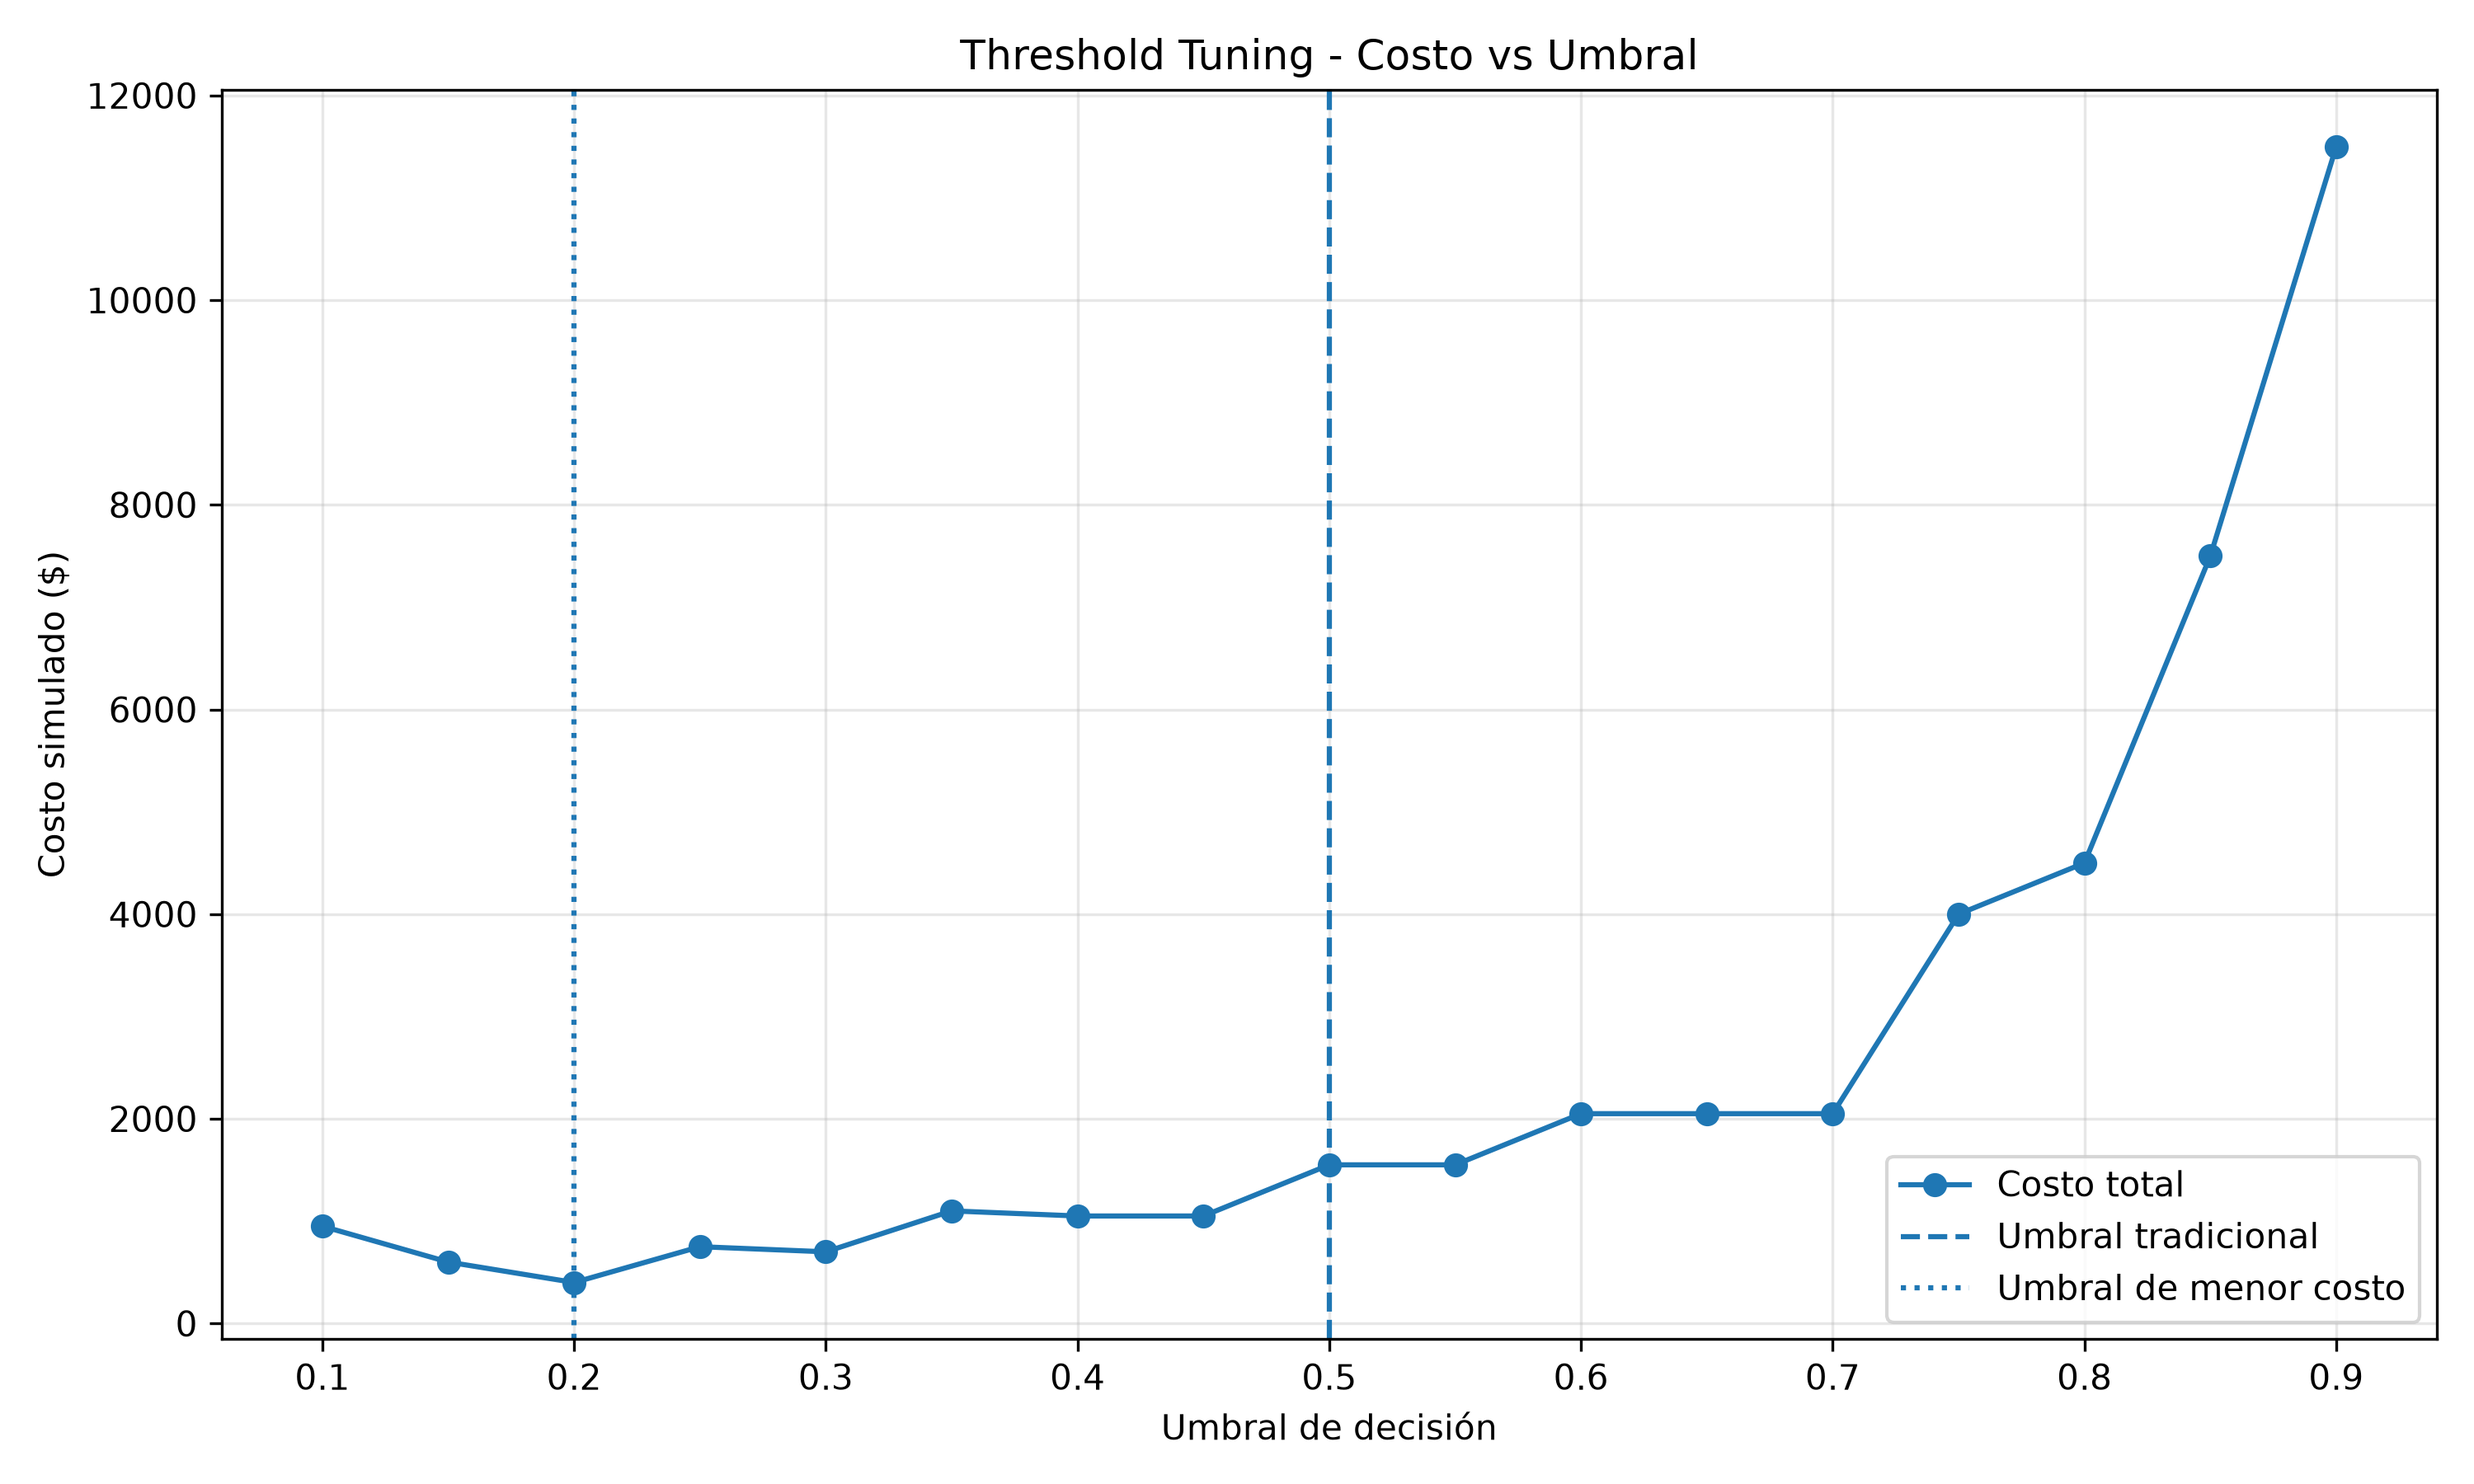
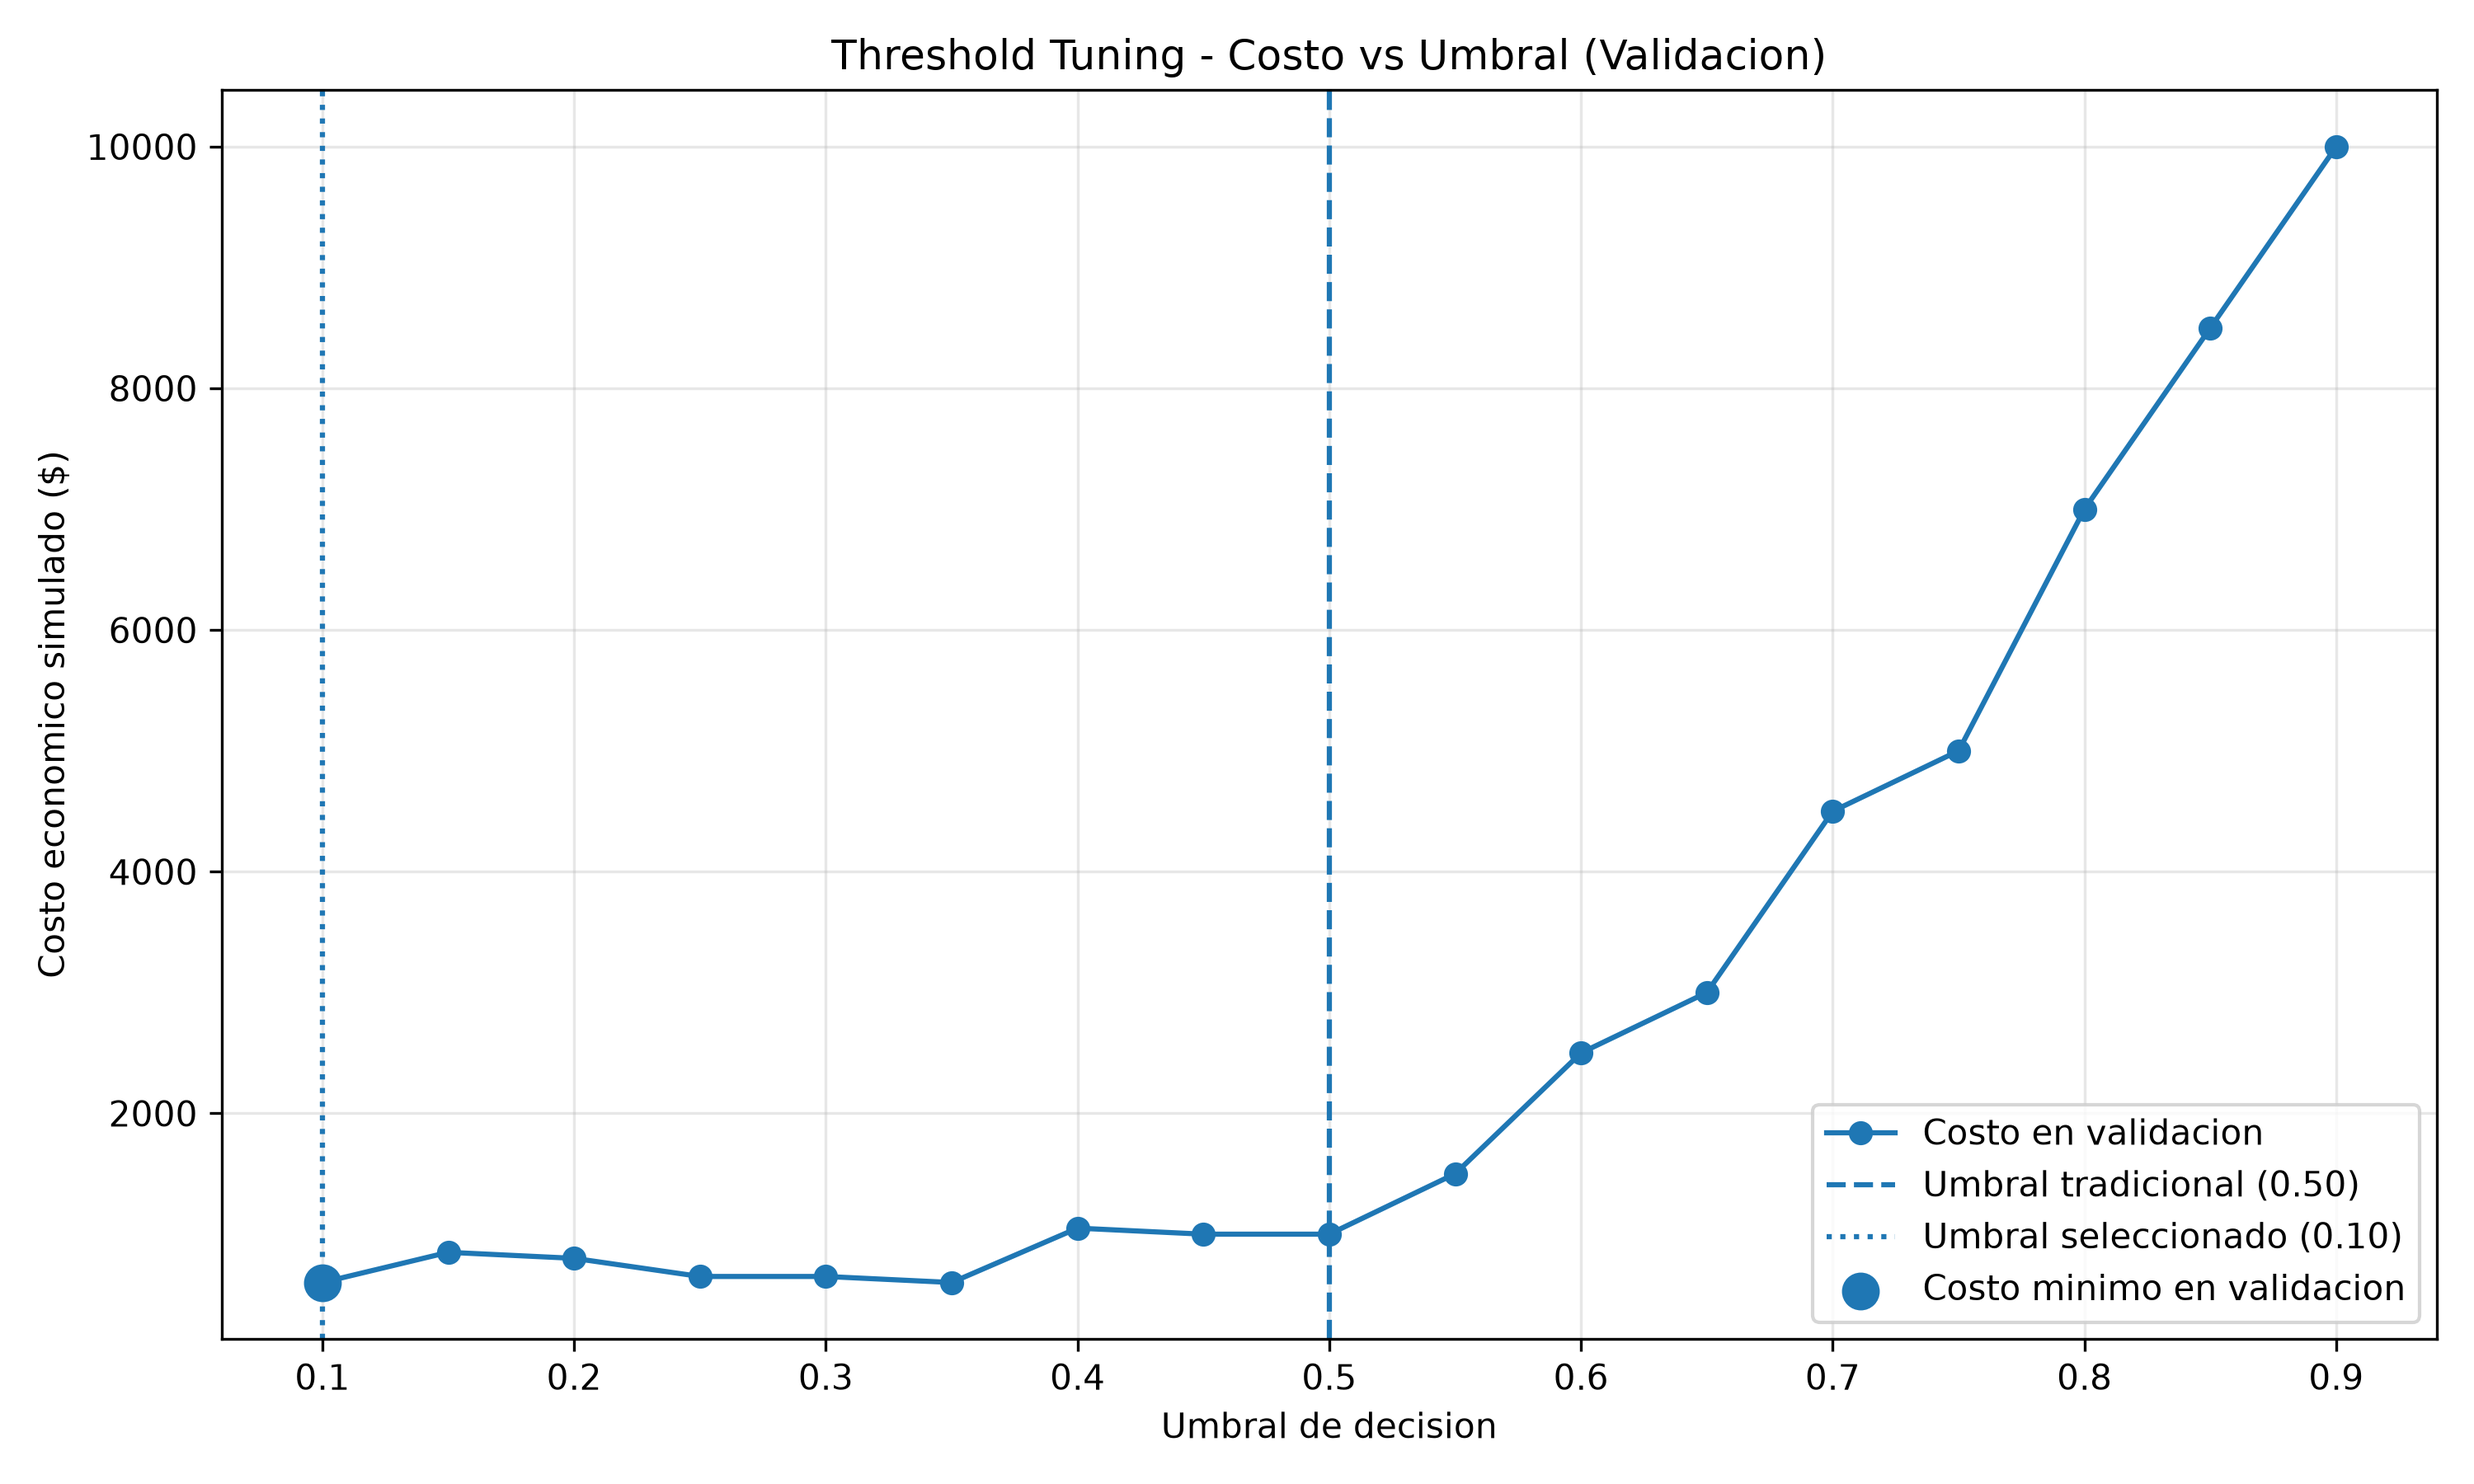
Corregir threshold tuning con validacion separada

diff --git a/src/p2_03_threshold.py b/src/p2_03_threshold.py
@@ -7,114 +7,323 @@ import matplotlib.pyplot as plt
 
 from sklearn.ensemble import RandomForestClassifier
 from sklearn.metrics import confusion_matrix
+from sklearn.model_selection import train_test_split
+
+# ============================================
+# PRACTICA 2 - SESION 3: THRESHOLD TUNING
+# ============================================
 
 BASE_DIR = Path(__file__).resolve().parent.parent
+
 DATASET = BASE_DIR / "data" / "processed" / "dataset.parquet"
 FIGURES = BASE_DIR / "reports" / "figures"
+PROCESSED = BASE_DIR / "data" / "processed"
+
 FIGURES.mkdir(parents=True, exist_ok=True)
+PROCESSED.mkdir(parents=True, exist_ok=True)
 
 COSTO_FP = 50
 COSTO_FN = 500
+RANDOM_STATE = 42
 
 
 def calcular_costo(y_real, y_pred):
-    """Calcula los errores y el costo económico simulado."""
+    """Calcula FP, FN y costo economico simulado."""
+
     tn, fp, fn, tp = confusion_matrix(
-        y_real, y_pred, labels=[0, 1]
+        y_real,
+        y_pred,
+        labels=[0, 1]
     ).ravel()
 
-    return int(fp), int(fn), int(fp * COSTO_FP + fn * COSTO_FN)
+    costo_total = fp * COSTO_FP + fn * COSTO_FN
+
+    return {
+        "TN": int(tn),
+        "FP": int(fp),
+        "FN": int(fn),
+        "TP": int(tp),
+        "Costo ($)": int(costo_total)
+    }
+
+
+def evaluar_umbral(y_real, probabilidades, umbral):
+    """Evalua las predicciones usando un umbral."""
+
+    predicciones = (
+        probabilidades >= umbral
+    ).astype(int)
+
+    return calcular_costo(y_real, predicciones)
 
 
 def main():
-    """Busca el umbral con menor costo en el conjunto evaluado."""
+    """Optimiza el umbral en validacion y evalua en test."""
+
+    # ----------------------------------------
+    # 1. CARGAR DATASET
+    # ----------------------------------------
+
     df = pd.read_parquet(DATASET)
 
-    train = df[df["conjunto"] == "train"]
-    test = df[df["conjunto"] == "test"]
+    train = df[df["conjunto"] == "train"].copy()
+    test = df[df["conjunto"] == "test"].copy()
 
-    sensores = [f"sensor_{i}" for i in range(1, 25)]
+    sensores = [
+        f"sensor_{i}" for i in range(1, 25)
+    ]
 
-    clase_minoritaria = train["clase"].value_counts().idxmin()
+    # Identificar clase minoritaria
+    clase_minoritaria = (
+        train["clase"].value_counts().idxmin()
+    )
 
-    X_train = train[sensores]
+    X_train_original = train[sensores]
+    y_train_original = (
+        train["clase"] == clase_minoritaria
+    ).astype(int)
+
     X_test = test[sensores]
+    y_test = (
+        test["clase"] == clase_minoritaria
+    ).astype(int)
 
-    y_train = (train["clase"] == clase_minoritaria).astype(int)
-    y_test = (test["clase"] == clase_minoritaria).astype(int)
+    print("\n=== SESION 3: THRESHOLD TUNING ===")
+    print("Clase minoritaria:", clase_minoritaria)
+
+    # ----------------------------------------
+    # 2. DIVIDIR TRAIN EN TRAIN Y VALIDACION
+    # ----------------------------------------
+
+    X_train, X_val, y_train, y_val = train_test_split(
+        X_train_original,
+        y_train_original,
+        test_size=0.20,
+        random_state=RANDOM_STATE,
+        stratify=y_train_original
+    )
+
+    print("\n=== DISTRIBUCION DE DATOS ===")
+    print("Entrenamiento:", len(X_train))
+    print("Validacion:", len(X_val))
+    print("Prueba:", len(X_test))
+
+    # ----------------------------------------
+    # 3. ENTRENAR RANDOM FOREST
+    # ----------------------------------------
 
     modelo = RandomForestClassifier(
         n_estimators=100,
-        random_state=42,
+        random_state=RANDOM_STATE,
         n_jobs=-1
     )
 
     modelo.fit(X_train, y_train)
 
-    probabilidades = modelo.predict_proba(X_test)[:, 1]
+    # Probabilidades de validacion
+    probabilidades_val = (
+        modelo.predict_proba(X_val)[:, 1]
+    )
+
+    # ----------------------------------------
+    # 4. PROBAR UMBRALES EN VALIDACION
+    # ----------------------------------------
 
     resultados = []
 
-    for umbral in np.round(np.arange(0.10, 0.901, 0.05), 2):
-        predicciones = (probabilidades >= umbral).astype(int)
+    umbrales = np.round(
+        np.arange(0.10, 0.901, 0.05),
+        2
+    )
 
-        fp, fn, costo = calcular_costo(y_test, predicciones)
+    for umbral in umbrales:
+
+        metricas = evaluar_umbral(
+            y_val,
+            probabilidades_val,
+            umbral
+        )
 
         resultados.append({
-            "Umbral": umbral,
-            "FP": fp,
-            "FN": fn,
-            "Costo ($)": costo
+            "Umbral": float(umbral),
+            **metricas
         })
 
     tabla = pd.DataFrame(resultados)
 
-    mejor = tabla.loc[tabla["Costo ($)"].idxmin()]
-    base = tabla[np.isclose(tabla["Umbral"], 0.50)].iloc[0]
+    # Seleccionar el menor costo en validacion
+    mejor = tabla.loc[
+        tabla["Costo ($)"].idxmin()
+    ]
 
-    ahorro = int(base["Costo ($)"] - mejor["Costo ($)"])
+    umbral_optimo = float(mejor["Umbral"])
 
-    print("\n=== COMPARACION DE UMBRALES ===")
+    base_val = tabla[
+        np.isclose(tabla["Umbral"], 0.50)
+    ].iloc[0]
+
+    print("\n=== RESULTADOS DE VALIDACION ===")
     print(tabla.to_string(index=False))
 
+    print("\n=== UMBRAL SELECCIONADO ===")
+    print(f"Umbral optimo: {umbral_optimo:.2f}")
+    print(
+        "Costo validacion con umbral 0.50:",
+        f"${int(base_val['Costo ($)']):,}"
+    )
+    print(
+        "Costo minimo en validacion:",
+        f"${int(mejor['Costo ($)']):,}"
+    )
+
+    # ----------------------------------------
+    # 5. EVALUAR EN TEST
+    # ----------------------------------------
+
+    # Reentrenar con todo el train original
+    # sin utilizar el conjunto de prueba.
+    modelo_final = RandomForestClassifier(
+        n_estimators=100,
+        random_state=RANDOM_STATE,
+        n_jobs=-1
+    )
+
+    modelo_final.fit(
+        X_train_original,
+        y_train_original
+    )
+
+    probabilidades_test = (
+        modelo_final.predict_proba(X_test)[:, 1]
+    )
+
+    # Umbral tradicional 0.50
+    resultado_base = evaluar_umbral(
+        y_test,
+        probabilidades_test,
+        0.50
+    )
+
+    # Umbral elegido en validacion
+    resultado_optimo = evaluar_umbral(
+        y_test,
+        probabilidades_test,
+        umbral_optimo
+    )
+
+    ahorro_test = (
+        resultado_base["Costo ($)"]
+        - resultado_optimo["Costo ($)"]
+    )
+
+    print("\n=== EVALUACION FINAL EN TEST ===")
+
+    comparacion = pd.DataFrame([
+        {
+            "Modelo": "Umbral tradicional",
+            "Umbral": 0.50,
+            **resultado_base
+        },
+        {
+            "Modelo": "Umbral optimizado",
+            "Umbral": umbral_optimo,
+            **resultado_optimo
+        }
+    ])
+
+    print(comparacion.to_string(index=False))
+
     print("\n=== RESULTADO FINAL ===")
-    print(f"Umbral optimo: {mejor['Umbral']:.2f}")
-    print(f"Costo con umbral 0.50: ${base['Costo ($)']:,.0f}")
-    print(f"Costo minimo: ${mejor['Costo ($)']:,.0f}")
-    print(f"Ahorro simulado: ${ahorro:,}")
+    print(f"Umbral seleccionado: {umbral_optimo:.2f}")
+    print(
+        "Costo test con umbral 0.50:",
+        f"${resultado_base['Costo ($)']:,}"
+    )
+    print(
+        "Costo test con umbral optimizado:",
+        f"${resultado_optimo['Costo ($)']:,}"
+    )
+    print(f"Ahorro simulado en test: ${ahorro_test:,}")
+
+    # ----------------------------------------
+    # 6. GENERAR GRAFICA DE VALIDACION
+    # ----------------------------------------
 
     plt.figure(figsize=(10, 6))
+
     plt.plot(
         tabla["Umbral"],
         tabla["Costo ($)"],
         marker="o",
-        label="Costo total"
+        label="Costo en validacion"
     )
 
     plt.axvline(
         0.50,
         linestyle="--",
-        label="Umbral tradicional"
+        label="Umbral tradicional (0.50)"
     )
 
     plt.axvline(
-        mejor["Umbral"],
+        umbral_optimo,
         linestyle=":",
-        label="Umbral de menor costo"
+        label=f"Umbral seleccionado ({umbral_optimo:.2f})"
     )
 
-    plt.title("Threshold Tuning - Costo vs Umbral")
-    plt.xlabel("Umbral de decisión")
-    plt.ylabel("Costo simulado ($)")
+    plt.scatter(
+        [umbral_optimo],
+        [mejor["Costo ($)"]],
+        s=100,
+        zorder=5,
+        label="Costo minimo en validacion"
+    )
+
+    plt.title(
+        "Threshold Tuning - Costo vs Umbral (Validacion)"
+    )
+    plt.xlabel("Umbral de decision")
+    plt.ylabel("Costo economico simulado ($)")
     plt.grid(alpha=0.3)
     plt.legend()
     plt.tight_layout()
 
-    grafico = FIGURES / "threshold_tuning.png"
-    plt.savefig(grafico, dpi=300)
-    plt.show()
+    ruta_grafico = FIGURES / "threshold_tuning.png"
 
-    print("\nGráfico guardado en:", grafico)
+    plt.savefig(
+        ruta_grafico,
+        dpi=300
+    )
+
+    plt.close()
+
+    # ----------------------------------------
+    # 7. GUARDAR RESULTADOS
+    # ----------------------------------------
+
+    ruta_validacion = (
+        PROCESSED / "p2_threshold_validacion.csv"
+    )
+
+    ruta_comparacion = (
+        PROCESSED / "p2_threshold_comparacion.csv"
+    )
+
+    tabla.to_csv(
+        ruta_validacion,
+        index=False
+    )
+
+    comparacion.to_csv(
+        ruta_comparacion,
+        index=False
+    )
+
+    print("\n=== ARCHIVOS GENERADOS ===")
+    print(ruta_grafico)
+    print(ruta_validacion)
+    print(ruta_comparacion)
+
+    print("\nSesion 3 completada correctamente.")
 
 
 if __name__ == "__main__":
